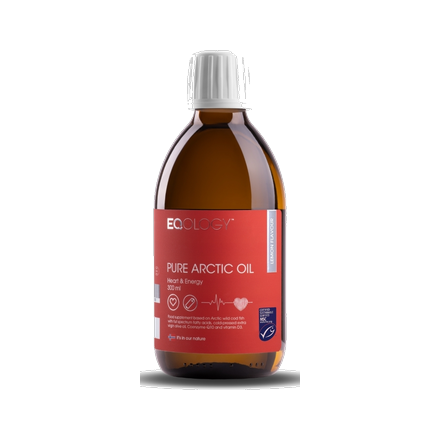
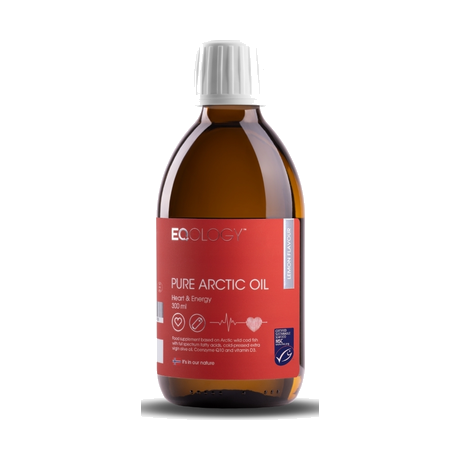
Tableau gamme : détourage + tailles cohérentes (cadrage partagé)
4 bouteilles identiques via un cadrage unique partagé (même largeur/hauteur),
Heart à la même hauteur, Kids plus petit, toutes détourées (PNG transparent),
carrées, bases alignées. Cache-bust v7.

Changed region(s): [[0.2955, 0.0886, 0.7091, 0.9159]]

diff --git a/index.html b/index.html
@@ -441,7 +441,7 @@
         <div class="overflow-x-auto">
           <table class="min-w-[920px] w-full border-collapse text-sm">
             <thead>
-              <tr class="bg-white"><th class="px-5 pt-6"></th><th class="px-3 pt-8 pb-4 text-center"><img src="assets/images/pao-kids.png?v=6" alt="Pure Arctic Oil For Kids" class="h-36 w-auto mx-auto object-contain" loading="lazy"></th><th class="px-3 pt-8 pb-4 text-center"><img src="assets/images/pao-lemon.png?v=6" alt="Pure Arctic Oil Lemon / Orange" class="h-36 w-auto mx-auto object-contain" loading="lazy"></th><th class="px-3 pt-8 pb-4 text-center"><img src="assets/images/pao-natural.png?v=6" alt="Pure Arctic Oil Natural" class="h-36 w-auto mx-auto object-contain" loading="lazy"></th><th class="px-3 pt-8 pb-4 text-center"><img src="assets/images/pao-heart.png?v=6" alt="Pure Arctic Oil Heart & Energy" class="h-36 w-auto mx-auto object-contain" loading="lazy"></th><th class="px-3 pt-8 pb-4 text-center"><img src="assets/images/pao-gold.png?v=6" alt="Pure Arctic Oil Gold" class="h-36 w-auto mx-auto object-contain" loading="lazy"></th><th class="px-3 pt-8 pb-4 text-center"><img src="assets/images/pao-vegan.png?v=6" alt="Pure Vegan Oil" class="h-36 w-auto mx-auto object-contain" loading="lazy"></th></tr>
+              <tr class="bg-white"><th class="px-5 pt-6"></th><th class="px-3 pt-8 pb-4 text-center"><img src="assets/images/pao-kids.png?v=7" alt="Pure Arctic Oil For Kids" class="h-36 w-auto mx-auto object-contain" loading="lazy"></th><th class="px-3 pt-8 pb-4 text-center"><img src="assets/images/pao-lemon.png?v=7" alt="Pure Arctic Oil Lemon / Orange" class="h-36 w-auto mx-auto object-contain" loading="lazy"></th><th class="px-3 pt-8 pb-4 text-center"><img src="assets/images/pao-natural.png?v=7" alt="Pure Arctic Oil Natural" class="h-36 w-auto mx-auto object-contain" loading="lazy"></th><th class="px-3 pt-8 pb-4 text-center"><img src="assets/images/pao-heart.png?v=7" alt="Pure Arctic Oil Heart & Energy" class="h-36 w-auto mx-auto object-contain" loading="lazy"></th><th class="px-3 pt-8 pb-4 text-center"><img src="assets/images/pao-gold.png?v=7" alt="Pure Arctic Oil Gold" class="h-36 w-auto mx-auto object-contain" loading="lazy"></th><th class="px-3 pt-8 pb-4 text-center"><img src="assets/images/pao-vegan.png?v=7" alt="Pure Vegan Oil" class="h-36 w-auto mx-auto object-contain" loading="lazy"></th></tr>
               <tr class="bg-navy-900 text-white"><th class="px-5 py-4 text-left text-xs font-semibold uppercase tracking-wider text-glacier-300">Gamme</th><th class="px-4 py-4 text-center align-middle"><span class="block font-serif text-sm font-bold leading-tight">Pure Arctic Oil For Kids</span></th><th class="px-4 py-4 text-center align-middle"><span class="block font-serif text-sm font-bold leading-tight">Pure Arctic Oil Lemon / Orange</span></th><th class="px-4 py-4 text-center align-middle"><span class="block font-serif text-sm font-bold leading-tight">Pure Arctic Oil Natural</span></th><th class="px-4 py-4 text-center align-middle"><span class="block font-serif text-sm font-bold leading-tight">Pure Arctic Oil Heart & Energy</span></th><th class="px-4 py-4 text-center align-middle"><span class="block font-serif text-sm font-bold leading-tight">Pure Arctic Oil Gold</span></th><th class="px-4 py-4 text-center align-middle"><span class="block font-serif text-sm font-bold leading-tight">Pure Vegan Oil</span></th></tr>
             </thead>
             <tbody>
